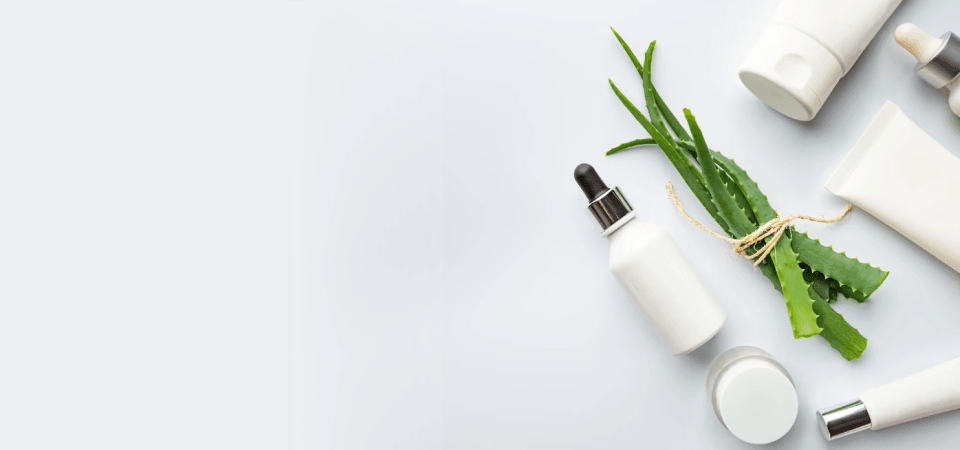
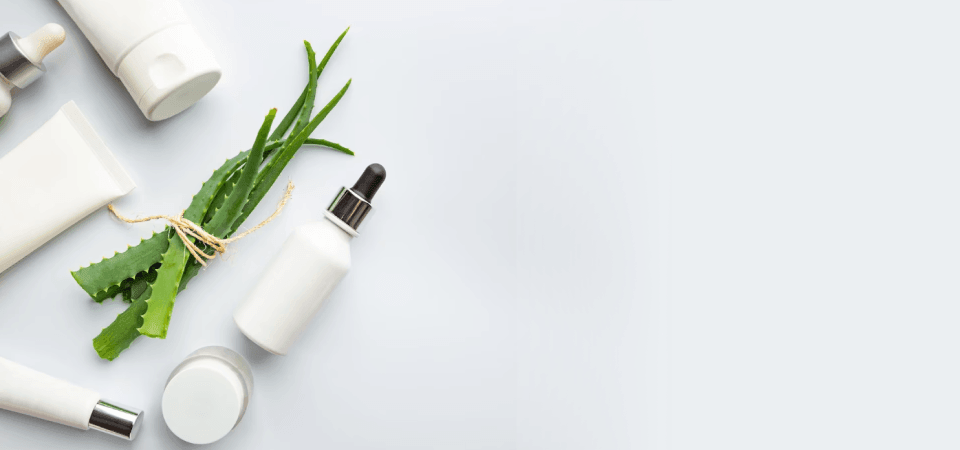
qrcode +page welcome+logout+perssist+about

diff --git a/src/screens/AboutUss.jsx b/src/screens/AboutUss.jsx
@@ -1,0 +1,99 @@
+import React from 'react';
+import { Header } from '../screens/articles/components/NavBar'; 
+import {Footer} from '../layout/Footer';
+
+const AboutUs = () => {
+  return (
+    
+    <div >
+      <Header />
+      <div  className="about-us-content">
+       
+      <div className="back-image ">
+      <div className="about-us-text">
+      <h>Our App</h>
+      <p>
+    Welcome to <span>PureWood</span>, your destination for exquisite wooden craftsmanship! Our app, PureWood, offers a wide range of beautifully crafted wooden products designed to enhance your home and lifestyle. With <span>PureWood</span>, you can explore and purchase items such as Wooden Water Covers, Wooden Serving Bowls, Wooden Glasses, Wooden Cups, Wooden Coffee Mugs, Wooden Brushes, Wooden Bottles, Luxury Couches, and Wooden Single Drawers, all through one intuitive platform. Our commitment to quality and artisanal design ensures that each piece is both functional and a work of art. Whether you're looking for everyday essentials or luxury home decor, PureWood provides a seamless shopping experience that brings the beauty of natural wood into your home. Discover the elegance and craftsmanship of PureWood today, and transform your living space with our unique wooden products!
+</p>
+
+  </div>
+</div>
+
+</div>
+      {/* <div>cc</div> */}
+      
+      <style>
+        {`body {
+            overflow-x: hidden;
+            background-color:#fffaf5;
+            // background-image: url
+            // background-image: url(./images/promotional/prom1)
+          }
+           
+         
+
+            .about-us-content {
+            display: flex;
+            flex-direction:row;
+            justify-content: space-between;
+            width: 100%;
+            margin-bottom:10%;
+            margin-right:auto;
+            margin-left:40vh;
+            }
+            span{
+                font-weight:bold;
+                color:#0d775e;
+            }
+            .about-us-text {
+            width:50%;
+           	
+            margin-top:20vh;
+            margin-bottom:80vh;
+            // margin-right:10vw;
+             margin-left:90vh;
+            }
+            .image1{
+             width:50%;
+             height:65vh;
+             margin-top:30vh;
+            }
+            .about-us-text p {
+                font-size: 18px;
+                line-height: 1.5;
+            //     margin-bottom: 30px;
+            //     text-align: justify; 
+            //     margin-top:30px;
+            margin-right:20px;
+            margin-left:20px;
+            text-align: justify; 
+            margin-top:20px;
+          }
+            .about-us-text h{
+                font-size: 30px;
+                color:black;
+                font-family: 'Times New Roman', Times, serif;
+                font-weight:bold;
+                margin-bottom: 60vh;
+            }
+            .about-us-image {
+            flex: 1;
+            display: flex;
+            justify-content: center;
+            align-items: center;
+            
+            }
+
+            .about-us-image img {
+            max-width: 100%;
+            height: auto;
+            }
+            
+            `}
+                </style>
+                <Footer />
+    </div>
+  );
+};
+
+export default AboutUs;

diff --git a/src/App.jsx b/src/App.jsx
@@ -2,27 +2,34 @@ import './App.css';
 import { BrowserRouter, Routes, Route } from 'react-router-dom';
 import { ToastContainer } from 'react-toastify';
 import 'react-toastify/dist/ReactToastify.css';
-// import { auth } from './firebase';
-// import { onAuthStateChanged } from 'firebase/auth';
-import ArticlesIndex from './screens/articles/index'; 
+import ArticlesIndex from './screens/articles/index';
 import Inbox from './screens/typeAuth/index';
-
-
+import { AuthProvider } from './screens/AuthContext';
+import ProtectedRoute from './screens/ProtectedRoute';
+import AboutUss from './screens/AboutUss';
 function App() {
   return (
     <div className="App">
-      <BrowserRouter>
-        <Routes>
-          <Route path="/" element={
-          <Inbox />
-          } />
-          <Route path="/articles" element={
-        
-             <ArticlesIndex />
-         } /> 
-        </Routes>
-      </BrowserRouter>
-      <ToastContainer />
+      <AuthProvider>
+        <BrowserRouter>
+          <Routes>
+            <Route path="/" element={<Inbox />} />
+            <Route
+              path="/articles"
+              element={
+                <ProtectedRoute>
+                  <ArticlesIndex />
+                </ProtectedRoute>
+              }
+            />
+             <Route path="/aboutus" element={<AboutUss />} />
+            
+          </Routes>
+        </BrowserRouter>
+        <ToastContainer />
+      </AuthProvider>
+   
+
     </div>
   );
 }

diff --git a/src/screens/AuthContext.jsx b/src/screens/AuthContext.jsx
@@ -1,0 +1,42 @@
+import React, { createContext, useContext, useEffect, useState } from 'react';
+import { getAuth, onAuthStateChanged, setPersistence, browserLocalPersistence, signOut } from 'firebase/auth';
+
+const AuthContext = createContext();
+
+export const AuthProvider = ({ children }) => {
+  const [currentUser, setCurrentUser] = useState(null);
+  const [loading, setLoading] = useState(true);
+  const auth = getAuth();
+
+  useEffect(() => {
+    setPersistence(auth, browserLocalPersistence)
+      .then(() => {
+        const unsubscribe = onAuthStateChanged(auth, (user) => {
+          setCurrentUser(user);
+          setLoading(false);
+        });
+
+        return () => unsubscribe();
+      })
+      .catch((error) => {
+        console.error("Erreur lors de la configuration de la persistance :", error);
+        setLoading(false);
+      });
+  }, []);
+
+  const handleLogout = async () => {
+    try {
+      await signOut(auth);
+    } catch (error) {
+      console.error("Erreur lors de la déconnexion :", error);
+    }
+  };
+
+  return (
+    <AuthContext.Provider value={{ currentUser, handleLogout }}>
+      {!loading && children}
+    </AuthContext.Provider>
+  );
+};
+
+export const useAuth = () => useContext(AuthContext);

diff --git a/src/screens/articles/components/NavBar.jsx b/src/screens/articles/components/NavBar.jsx
@@ -3,11 +3,12 @@ import LogoImg from "../../../assets/common/logo.png"
 import React, { useEffect, useRef, useState } from 'react';
 import { CustomNavLink } from "./CustomComponents";
 import { IoIosSearch } from "react-icons/io"; 
-
+import { useAuth } from '../../AuthContext';
 import { ModelCart } from "@/modal/Panier";
 
 
 export const Header = () => {
+    const { currentUser, handleLogout } = useAuth();
     const [isOpen, setIsOpen] = useState(false);
     const [isScrolled, setIsScrolled] = useState(false);
     const menuRef = useRef(null);
@@ -74,6 +75,9 @@ if (menuRef.current && !menuRef.current.contains(event.target)){
     </div> */}
 <div className="icon flex items-center justify-center gap-6">
 {/* <IoIosSearch size={23} /> */}
+ <button onClick={handleLogout} className="uppercase hidden lg:block text-inherit relative z-20">
+                Logout
+              </button>
 <ModelCart/>
 
 </div>

diff --git a/src/screens/typeAuth/index.jsx b/src/screens/typeAuth/index.jsx
@@ -32,7 +32,7 @@ const index = () => {
           <p style={{ marginLeft: 'em', padding: '1em',fontSize: '1.4rem'}} className='text-black '>This site allows you to make</p>
           <p style={{ padding: 'em',fontSize: '1.4rem'}} className='text-black '>purchases and pay using a QR code.</p>
         </div>
-        <div style={{ borderRadius: '0.75rem', boxShadow: '2px 2px 4px 9px rgba(0, 0, 0, 0.5)', width: '20em', margin: '5rem auto', padding: '1rem', }}>
+        <div style={{ borderRadius: '0.75rem', boxShadow: '2px 2px 4px 9px rgba(0, 0, 0, 0.5)', width: '20em', margin: '5rem auto', padding: '1rem',backgroundColor:'white' }}>
           <div style={{ textAlign: 'center' }}>
             <p style={{ fontSize: '1.5rem' }} className='text-black'>Let's Get Started</p>
             <p className='text-black'>Connect instantly by scanning and paying.</p>

diff --git a/src/App.css b/src/App.css
@@ -1,5 +1,5 @@
 #root {
-  max-width: 1280px;
+  /* max-width: 1280px; */
   margin: 0 auto;
   padding: 0rem;
   text-align: center;
@@ -104,7 +104,16 @@ body {
   height: 100%;
   z-index: -1;
 }
-
+.back-image{
+  background-image: url(../public/images/promotional/prom1.png);
+  background-size: cover;
+  background-position: center;
+  position: absolute;
+  top: 0;
+  left: 0;
+  width: 100%;
+  height: 100%;
+}
 .background-image.blur {
   filter: blur(4px);
 }

diff --git a/src/assets/data/data.js b/src/assets/data/data.js
@@ -16,7 +16,7 @@ export const menulists = [
   // },
   {
     id: 4,
-    path: "/about",
+     path: "/aboutus",
     link: "about",
   },
   // {
@@ -24,11 +24,11 @@ export const menulists = [
   //   path: "/services",
   //   link: "Services",
   // },
-  {
-    id: 6,
-    path: "/contact",
-    link: "Contact",
-  },
+  // {
+  //   id: 6,
+  //   path: "/contact",
+  //   link: "Contact",
+  // },
 ];
 
 export const herolist = [

diff --git a/src/screens/ProtectedRoute.jsx b/src/screens/ProtectedRoute.jsx
@@ -1,0 +1,15 @@
+import React from 'react';
+import { Navigate } from 'react-router-dom';
+import { useAuth } from './AuthContext';
+
+const ProtectedRoute = ({ children }) => {
+  const { currentUser } = useAuth();
+
+  if (!currentUser) {
+    return <Navigate to="/" />;
+  }
+
+  return children;
+};
+
+export default ProtectedRoute;
